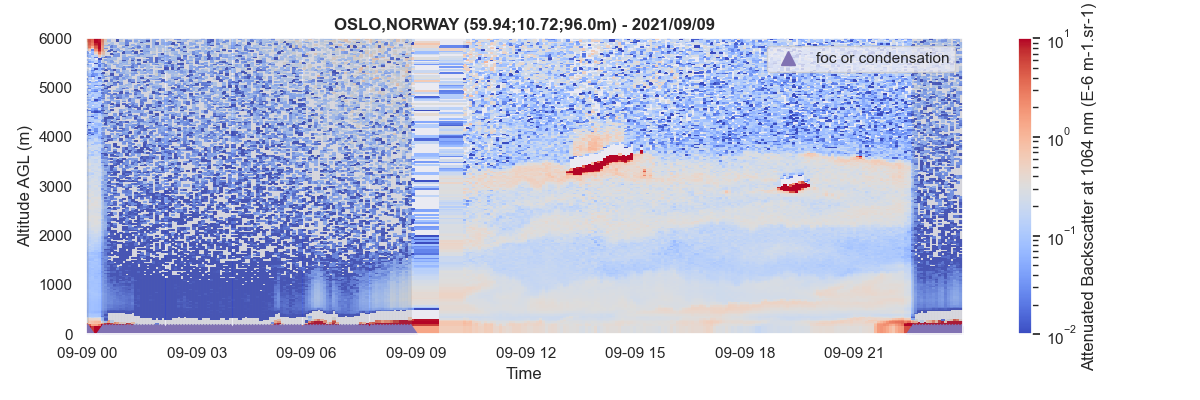
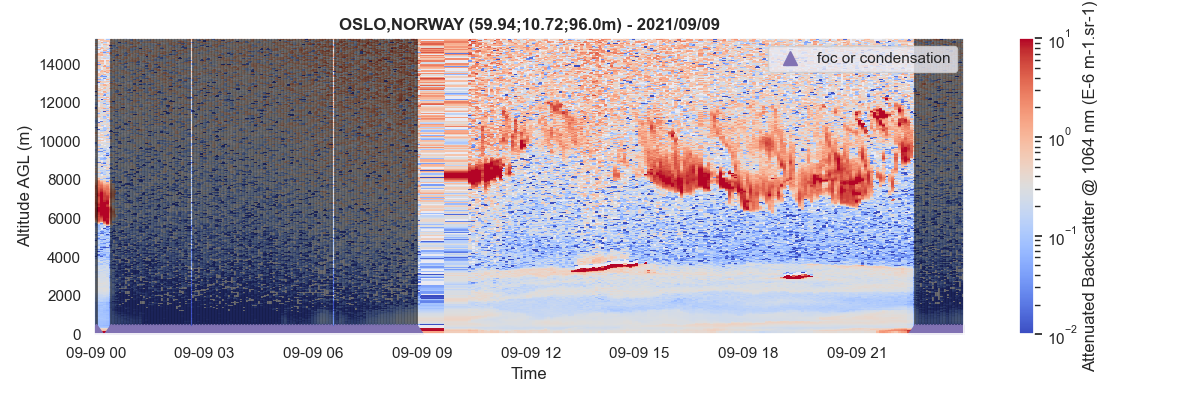
fix foc plotting

diff --git a/aprofiles/profiles.py b/aprofiles/profiles.py
@@ -410,7 +410,7 @@ class ProfilesData:
         zmin_cloud=200.0,
     ):
         """Calls :meth:`aprofiles.detection.foc.detect_foc()`."""
-        apro.detection.foc.detect_foc(self, method, var, z_snr, min_snr, zmin_cloud)
+        return apro.detection.foc.detect_foc(self, method, var, z_snr, min_snr, zmin_cloud)
 
     def clouds(
         self,
@@ -422,7 +422,7 @@ class ProfilesData:
         verbose=False,
     ):
         """Calls :meth:`aprofiles.detection.clouds.detect_clouds()`."""
-        apro.detection.clouds.detect_clouds(
+        return apro.detection.clouds.detect_clouds(
             self, time_avg, zmin, thr_noise, thr_clouds, min_snr, verbose
         )
 
@@ -437,7 +437,7 @@ class ProfilesData:
         verbose=False,
     ):
         """Calls :meth:`aprofiles.detection.pbl.detect_pbl()`."""
-        apro.detection.pbl.detect_pbl(
+        return apro.detection.pbl.detect_pbl(
             self, time_avg, zmin, zmax, wav_width, under_clouds, min_snr, verbose
         )
 
@@ -458,7 +458,7 @@ class ProfilesData:
         """Calls :meth:`aprofiles.retrieval.extinction.inversion()` to calculate extinction profiles.
         Calls :meth:`aprofiles.retrieval.mass_conc.mec()` to calculate Mass to Extinction coefficients if `mass_conc` is true (Default).
         """
-        apro.retrieval.extinction.inversion(
+        return apro.retrieval.extinction.inversion(
             self,
             time_avg,
             zmin,

diff --git a/aprofiles/plot/image.py b/aprofiles/plot/image.py
@@ -25,19 +25,19 @@ def _plot_foc(da, zref):
         altitude = da.altitude.data - da.station_altitude.data
     elif zref.upper() == "ASL":
         altitude = da.altitude.data
-
-    foc_markers = [altitude[0] if x is True else np.nan for x in da.foc.data]
+    
+    foc_markers = [altitude[0] if x else np.nan for x in da.foc.data]
 
     # plot line from peak to base
     for i, _ in enumerate(foc_markers):
-        if foc_markers[i] is not np.nan:
+        if not np.isnan(foc_markers[i]):
             plt.plot(
                 [time[i], time[i]],
                 [altitude[0], altitude[-1]],
                 "m-",
-                color="gray",
+                color="black",
                 lw=2.0,
-                alpha=0.2,
+                alpha=0.6,
             )
     # plot markers
     plt.plot([], [], "^m", ms=10, lw=0, label="foc or condensation")

diff --git a/aprofiles/detection/foc.py b/aprofiles/detection/foc.py
@@ -91,5 +91,21 @@ def detect_foc(
             long_name="Fog or condensation mask.",
         ),
     )
-
     return self
+
+
+def _main():
+    import aprofiles as apro
+
+    path = "examples/data/E-PROFILE/L2_0-20000-001492_A20210909.nc"
+    profiles = apro.reader.ReadProfiles(path).read()
+
+    # basic corrections
+    profiles.extrapolate_below(z=150.0, inplace=True)
+
+    # detection
+    profiles.foc().plot(show_foc=True, log=True, vmin=1e-2, vmax=1e1)
+
+
+if __name__ == "__main__":
+    _main()

diff --git a/aprofiles/plot/profile.py b/aprofiles/plot/profile.py
@@ -27,7 +27,7 @@ def _plot_foc(da, time, zref):
     elif zref.upper() == "ASL":
         altitude = da.altitude.data
 
-    foc_markers = [altitude[0] if x is True else np.nan for x in da.foc.data]
+    foc_markers = [altitude[0] if x else np.nan for x in da.foc.data]
     if not np.isnan(foc_markers[i_time]):
         plt.plot([], [], "^m", ms=10, lw=0, label="foc or condensation")
         plt.plot(0, foc_markers[i_time], "m", marker=10, ms=10, lw=0)
